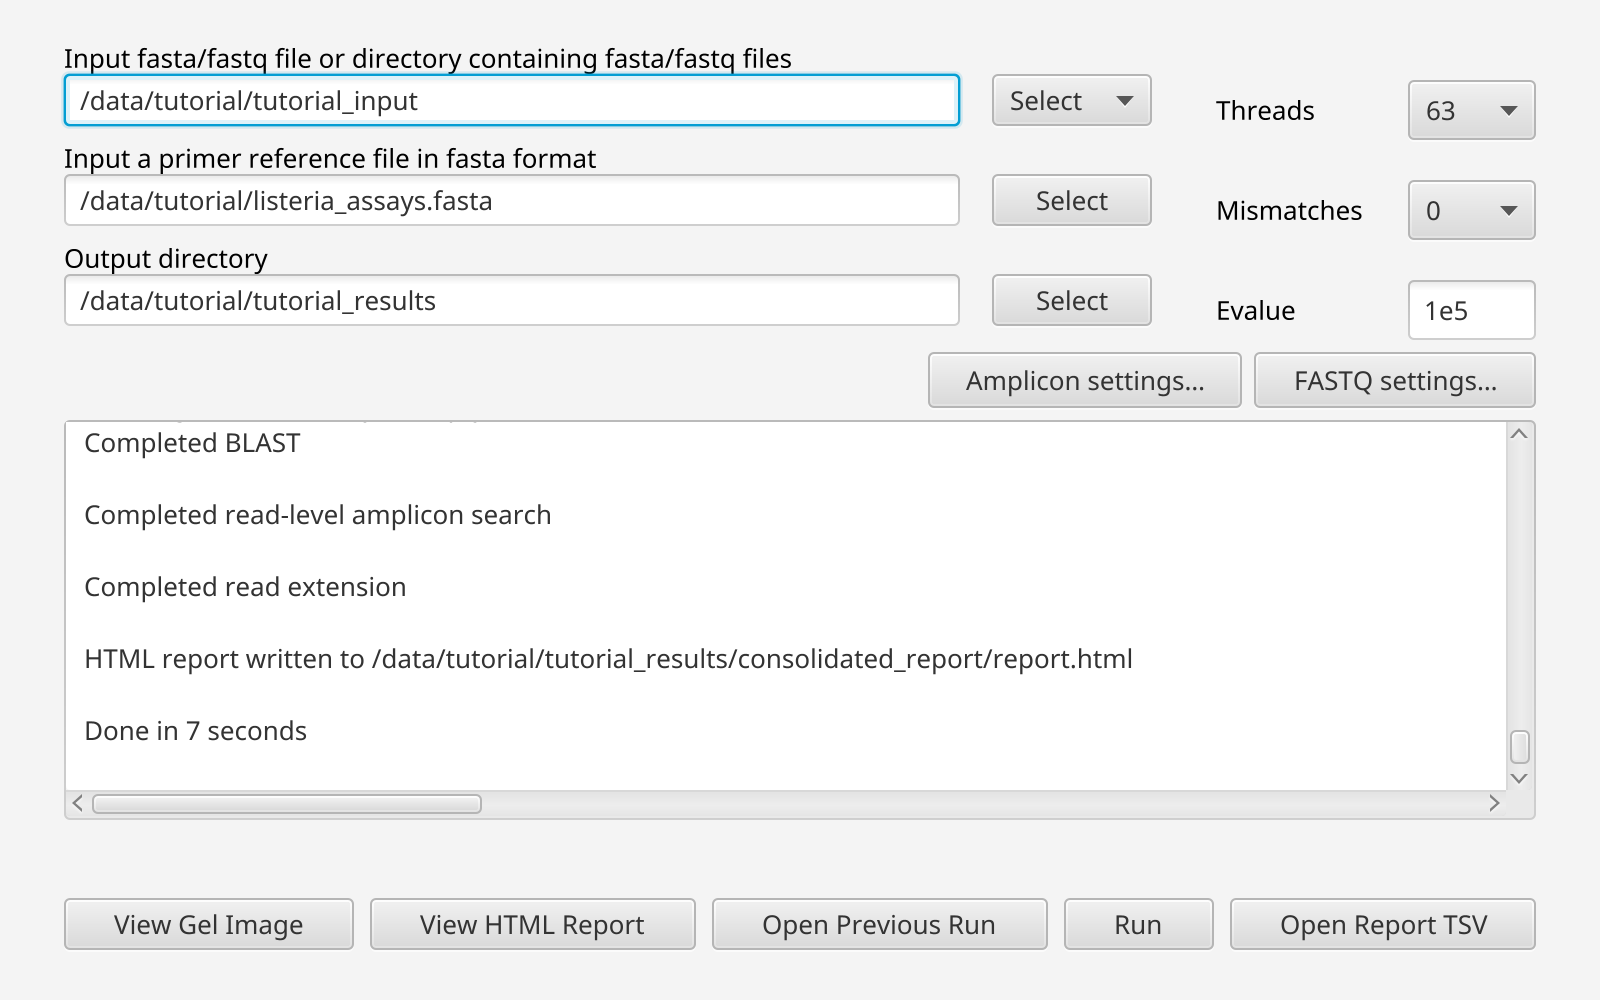
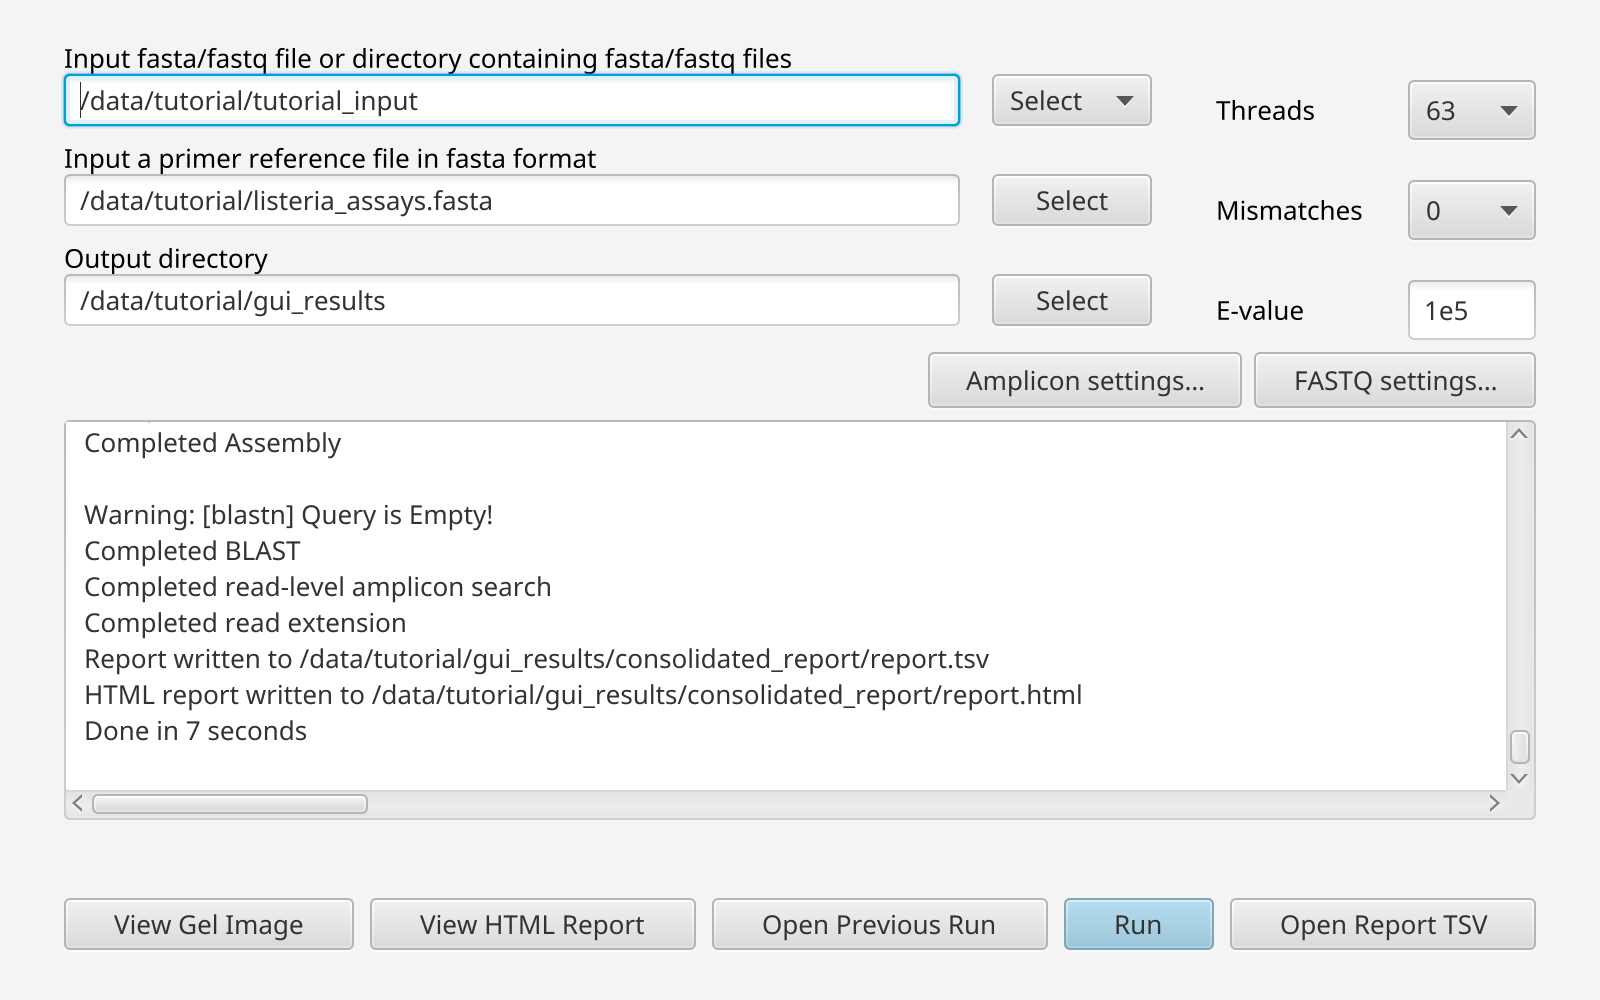
docs: tutorial example and pictures from insilicoPCR 1.0.0
Rerun of the tutorial's command line with the released 1.0.0 package,
from a /data sandbox so no local path shows. Same four products as
before; report.tsv and report.html in the 1.0 format, the run's
report_samples.tsv added, and the HTML report, gel and window pictures
retaken.

diff --git a/docs/examples/tutorial/report.html b/docs/examples/tutorial/report.html
@@ -69,7 +69,8 @@ button.chip { cursor: pointer; } button.chip:hover, button.chip:focus-visible { 
 .chip.amplified { background: var(--amplified); color: #fff; }
 .chip.other { border-color: var(--other); }
 .chip.unexpected { border-color: var(--unexpected); border-style: dashed; }
-.chip.inconclusive, .chip.unconfirmed { border: 2px dotted var(--ink-3); color: var(--ink-2); }
+.chip.inconclusive { border: 2px dotted var(--ink-3); color: var(--ink-2); }
+.chip.unconfirmed { border: 2px dashed var(--ink-3); color: var(--ink-2); }
 .chip.unchecked { color: var(--ink-3); min-width: 0; padding: 0; font-weight: 400; }
 .chip.across_ends { color: var(--ink-2); min-width: 0; padding: 0; font-weight: 400; }
 .chip.none { color: var(--line-2); min-width: 0; padding: 0; font-weight: 400; }
@@ -107,7 +108,7 @@ details .names { margin-top: 6px; }
 <main>
 <header>
 <h1>insilicoPCR report</h1>
-<p class="sub">2026-11-15 16:45 · version 0.15.2 · report.tsv</p>
+<p class="sub">2026-11-17 13:17 · version 1.0.0 · report.tsv</p>
 </header>
 <section class="tiles" aria-label="Summary">
 <div class="tile"><span class="n">4</span><span class="l">samples</span></div>
@@ -158,8 +159,8 @@ details .names { margin-top: 6px; }
 <div class="scroll"><table class="rows" id="rows">
 <thead><tr><th>Sample</th><th>Assay</th><th class="num">Size (bp)</th><th>Size check</th><th>Found on</th><th>Location</th><th class="num" title="Forward / reverse primer mismatches">Mismatches F/R</th><th class="num" title="Imperfections in the 3' window, forward / reverse">3′ F/R</th><th class="num" title="Bases at the 5' end of each primer that do not pair with the template, forward / reverse; the mismatch columns do not count them">5′ unpaired F/R</th><th>Strand</th><th>Probe</th><th class="num">Probe mismatches</th></tr></thead>
 <tbody>
-<tr data-s="SRR17090570" data-a="hly702"><td>SRR17090570</td><td>hly702</td><td class="num">702</td><td><span class="chip target">✓ target</span></td><td title="contig_0,len=2492,cov=19.8,gc=0.360,class=long/medium/unanchored,min=2,max=51,hh=0.552,caga=0.523">contig_0</td><td>660-1361</td><td class="num">0 / 0</td><td class="num">0 / 0</td><td class="num" title="forward primer 18 of 18 bases, reverse primer 17 of 18 bases"><span class="part">◐</span> 0 / 1</td><td>-</td><td></td><td class="num"></td></tr>
-<tr data-s="SRR17090570" data-a="hlyQ"><td>SRR17090570</td><td>hlyQ</td><td class="num">112</td><td><span class="chip target">✓ target</span></td><td title="contig_0,len=2492,cov=19.8,gc=0.360,class=long/medium/unanchored,min=2,max=51,hh=0.552,caga=0.523">contig_0</td><td>1257-1368</td><td class="num">0 / 0</td><td class="num">0 / 0</td><td class="num" title="forward primer 19 of 19 bases, reverse primer 24 of 24 bases">0 / 0</td><td>-</td><td>hlyQ-P</td><td class="num">0</td></tr>
+<tr data-s="SRR17090570" data-a="hly702"><td>SRR17090570</td><td>hly702</td><td class="num">702</td><td><span class="chip target">✓ target</span></td><td title="contig_0,len=2492,cov=18.8,gc=0.360,class=long/medium/unanchored,min=2,max=51,hh=0.552,caga=0.523">contig_0</td><td>660-1361</td><td class="num">0 / 0</td><td class="num">0 / 0</td><td class="num" title="forward primer 18 of 18 bases, reverse primer 17 of 18 bases"><span class="part">◐</span> 0 / 1</td><td>-</td><td></td><td class="num"></td></tr>
+<tr data-s="SRR17090570" data-a="hlyQ"><td>SRR17090570</td><td>hlyQ</td><td class="num">112</td><td><span class="chip target">✓ target</span></td><td title="contig_0,len=2492,cov=18.8,gc=0.360,class=long/medium/unanchored,min=2,max=51,hh=0.552,caga=0.523">contig_0</td><td>1257-1368</td><td class="num">0 / 0</td><td class="num">0 / 0</td><td class="num" title="forward primer 19 of 19 bases, reverse primer 24 of 24 bases">0 / 0</td><td>-</td><td>hlyQ-P</td><td class="num">0</td></tr>
 <tr data-s="lmono_EGDe" data-a="hly702"><td>lmono_EGDe</td><td>hly702</td><td class="num">702</td><td><span class="chip target">✓ target</span></td><td title="NC_003210.1 — Listeria monocytogenes EGD-e chromosome, complete genome">NC_003210.1</td><td>205963-206664</td><td class="num">0 / 0</td><td class="num">0 / 0</td><td class="num" title="forward primer 18 of 18 bases, reverse primer 18 of 18 bases">0 / 0</td><td>+</td><td></td><td class="num"></td></tr>
 <tr data-s="lmono_EGDe" data-a="hlyQ"><td>lmono_EGDe</td><td>hlyQ</td><td class="num">112</td><td><span class="chip target">✓ target</span></td><td title="NC_003210.1 — Listeria monocytogenes EGD-e chromosome, complete genome">NC_003210.1</td><td>205956-206067</td><td class="num">0 / 0</td><td class="num">0 / 0</td><td class="num" title="forward primer 19 of 19 bases, reverse primer 24 of 24 bases">0 / 0</td><td>+</td><td>hlyQ-P</td><td class="num">0</td></tr>
 </tbody></table></div>
@@ -167,8 +168,8 @@ details .names { margin-top: 6px; }
 <section>
 <h2>Run details</h2>
 <dl class="details">
-<dt>Date</dt><dd>2026-11-15 16:45</dd>
-<dt>insilicoPCR version</dt><dd>0.15.2</dd>
+<dt>Date</dt><dd>2026-11-17 13:17</dd>
+<dt>insilicoPCR version</dt><dd>1.0.0</dd>
 <dt>Input</dt><dd>/data/tutorial/tutorial_input</dd>
 <dt>Primer file</dt><dd>/data/tutorial/listeria_assays.fasta</dd>
 <dt>Output folder</dt><dd>/data/tutorial/tutorial_results</dd>
@@ -182,8 +183,9 @@ details .names { margin-top: 6px; }
 <dt>Input check (--input-check)</dt><dd>full</dd>
 <dt>Tadpole assembly (FASTQ, --tadpole-...)</dt><dd>k=31 mincountseed=2 mincov=1 mincontig=60</dd>
 <dt>Read-level calls (FASTQ, --read-min-fraction)</dt><dd>at least 2 reads or read pairs and 30% of informative reads</dd>
-<dt>Read extension (FASTQ, --read-extension)</dt><dd>unreported: for assays in no contig and in no read, when reads carry both primers, up to 150 reads per primer are extended through the baited reads (Tadpole mode=extend k=31 branchmult1=1 branchmult2=1 mincountextend=2); a product needs at least 2 extended reads seeded from each primer, and read pairs holding each of its windows (the largest window of 100, 150, ... bases whose median is held by 10 pairs; none held by fewer than 2 or 10% of the median), and no repeat that long with another copy in the sample</dd>
-<dt>BBTools memory (FASTQ, --bbtools-memory)</dt><dd>automatic: three quarters of the memory insilicoPCR leaves free, at least half of its heap</dd>
+<dt>Read extension (FASTQ, --read-extension)</dt><dd>unreported: for assays in no contig and in no read, when reads carry both primers, up to 150 reads per primer are extended through the reads baited in rounds (Tadpole mode=extend k=31 branchmult1=1 branchmult2=1 mincountextend=2); a product needs at least 2 extended reads seeded from one primer, and read pairs holding each of its windows (the largest window of 100, 150, ... bases whose median is held by 10 pairs; none held by fewer than 2 or 10% of the median), and no repeat that long with another copy in the sample</dd>
+<dt>Memory (--memory)</dt><dd>automatic: three quarters of the memory insilicoPCR leaves free on the computer (a job&#39;s limit on a cluster), at least half of its own heap</dd>
+<dt>Tools</dt><dd>BLAST+ 2.17.0, BBTools 40.04, Java 26.0.2.1+1 (Eclipse Adoptium)</dd>
 </dl>
 <p class="hint">This page shows the rows of <code>report.tsv</code>, in the same folder. insilicoPCR reports every product a PCR would amplify, whatever its size; the size check compares each product with the sizes declared in the primer file and removes nothing.</p>
 </section>
@@ -228,7 +230,10 @@ details .names { margin-top: 6px; }
     });
     rowFilter.value = '';
     showAll.hidden = false;
-    rowCount.textContent = sample + ' · ' + assay + ': ' + shown + ' of ' + rows.length + ' shown';
+    var capped = document.getElementById('rows').dataset.capped;
+    rowCount.textContent = sample + ' · ' + assay + ': ' + (shown === 0 && capped
+        ? 'not among the amplicons listed here; ' + capped + ' has them'
+        : shown + ' of ' + rows.length + ' shown');
   }
   if (rowFilter) {
     rowFilter.addEventListener('input', typed);

diff --git a/docs/wiki/Tutorial-Mixed-PCR-qPCR.md b/docs/wiki/Tutorial-Mixed-PCR-qPCR.md
@@ -6,7 +6,7 @@ This tutorial walks through a complete, realistic insilicoPCR run using **public
 - a **genome assembly** (FASTA) and **raw Illumina reads** (FASTQ) as inputs,
 - a **positive control** (*Listeria monocytogenes*) and a **negative control** (*Listeria innocua*, the classic *hly*-negative near-neighbor used for exclusivity testing).
 
-The steps below use the command line from an extracted portable release; [section 7](#7-the-same-run-in-the-gui) does the same run in the GUI. Every table and picture on this page comes from running exactly these steps with version 0.15.2, and the primer file and the reports of that run are in the repository under [`docs/examples/tutorial/`](https://github.com/duceppemo/insilicoPCR/tree/master/docs/examples/tutorial).
+The steps below use the command line from an extracted portable release; [section 7](#7-the-same-run-in-the-gui) does the same run in the GUI. Every table and picture on this page comes from running exactly these steps with version 1.0.0, and the primer file and the reports of that run are in the repository under [`docs/examples/tutorial/`](https://github.com/duceppemo/insilicoPCR/tree/master/docs/examples/tutorial).
 
 ## 1. The assays
 
@@ -84,7 +84,7 @@ What happens, per sample:
 - accepted hits are paired into amplicons (convergent orientation, ≤ 5000 bp by default, perfect 3' ends — see [Amplicon Calling](Amplicon-Calling));
 - `--gel` additionally renders the synthetic gel image (requires a graphical environment).
 
-The run takes well under a minute on a desktop machine (14 seconds here). It writes, under `tutorial_results/`:
+The run takes well under a minute on a desktop machine (12 seconds here). It writes, under `tutorial_results/`:
 
 | File | What it is |
 |---|---|

diff --git a/docs/examples/tutorial/README.md b/docs/examples/tutorial/README.md
@@ -1,11 +1,12 @@
 # Tutorial example files
 
-The primer file and the reports of the [tutorial](https://github.com/duceppemo/insilicoPCR/wiki/Tutorial-Mixed-PCR-qPCR), from a run of insilicoPCR 0.15.2 on its four public samples with default settings.
+The primer file and the reports of the [tutorial](https://github.com/duceppemo/insilicoPCR/wiki/Tutorial-Mixed-PCR-qPCR), from a run of insilicoPCR 1.0.0 on its four public samples with default settings.
 
 | File | What it is |
 |---|---|
 | [`listeria_assays.fasta`](listeria_assays.fasta) | The two *hly* assays, with their product sizes declared |
 | [`report.tsv`](report.tsv) | Consolidated report: one row per amplicon |
+| [`report_samples.tsv`](report_samples.tsv) | Every sample of the run, with its number of products: the two *L. innocua* samples have `0` |
 | [`report.html`](report.html) | HTML report. Download it and open it in a web browser; GitHub only shows its source |
 
 `report_fastq_diagnostics.tsv` is not included: it only holds its header line in this run, since no assay was missed for the two read sets.
